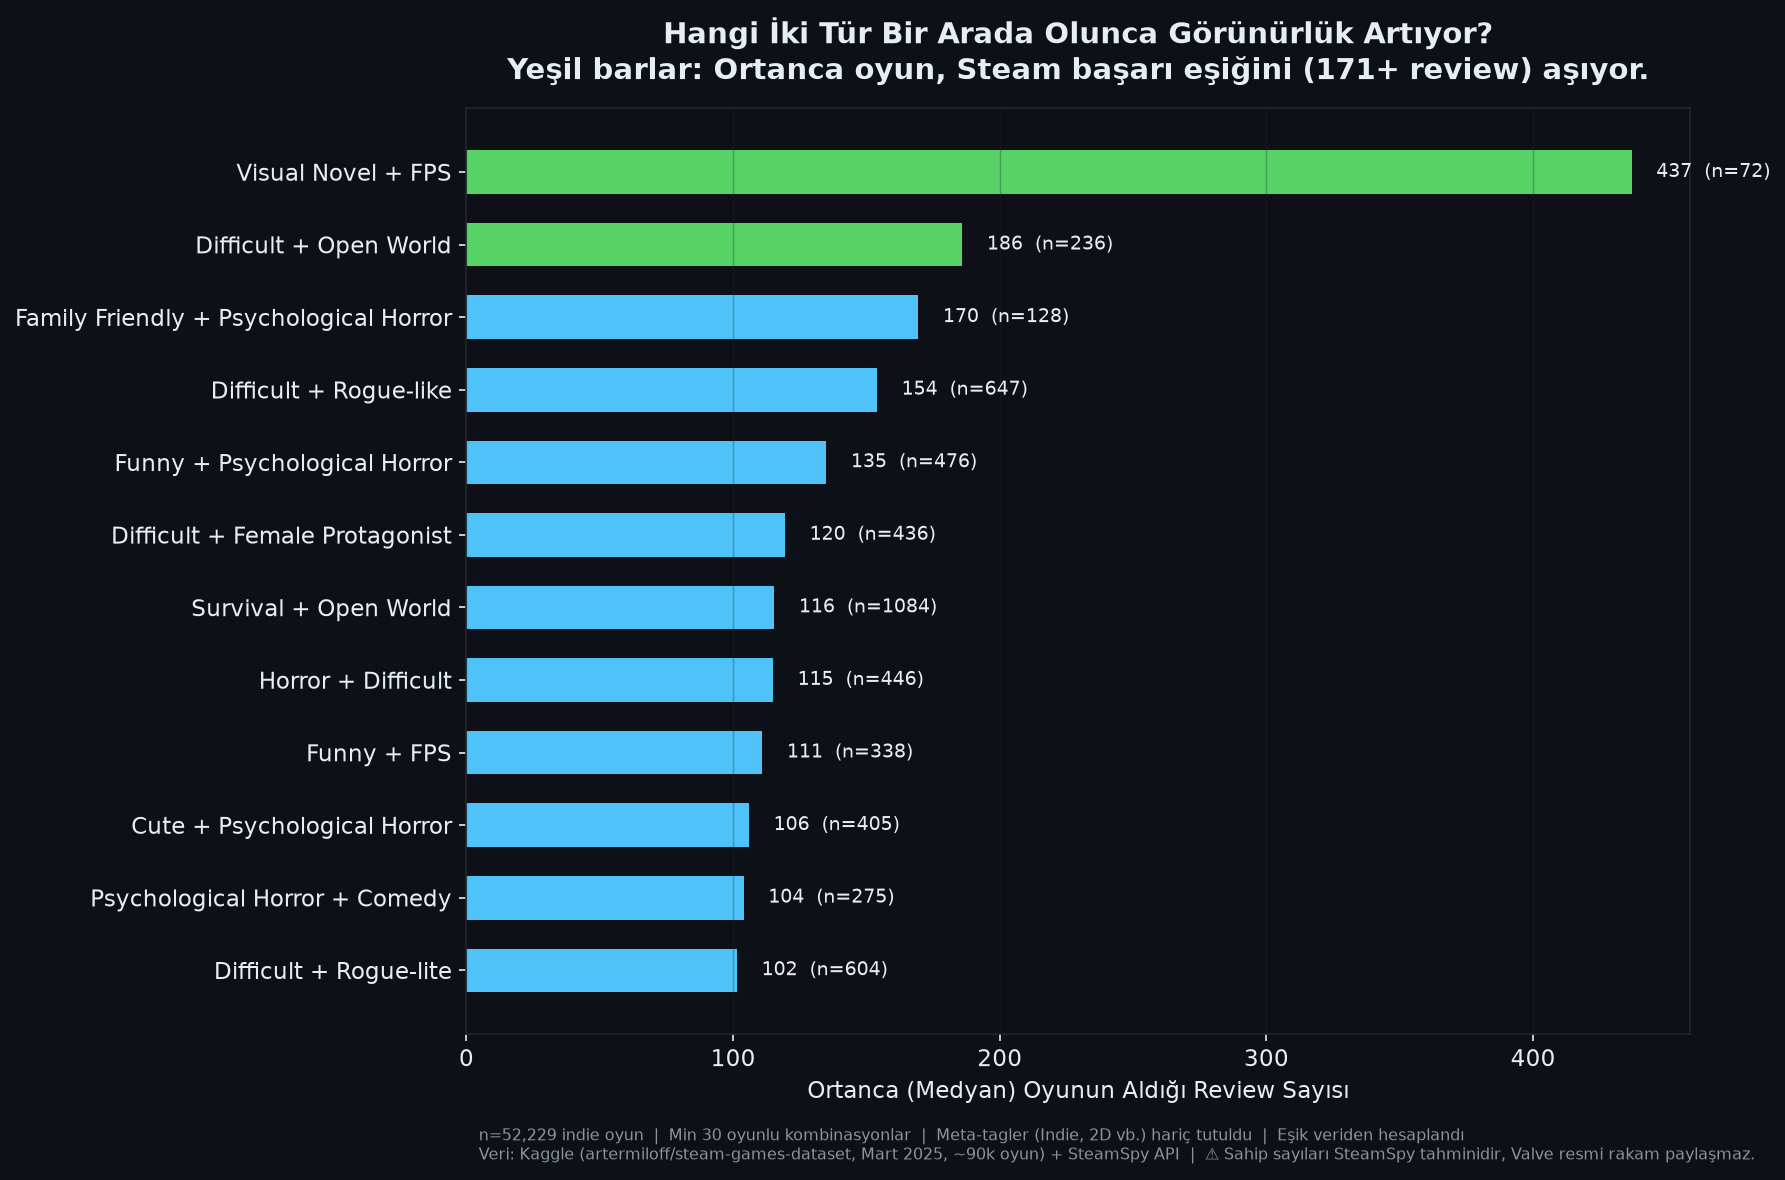
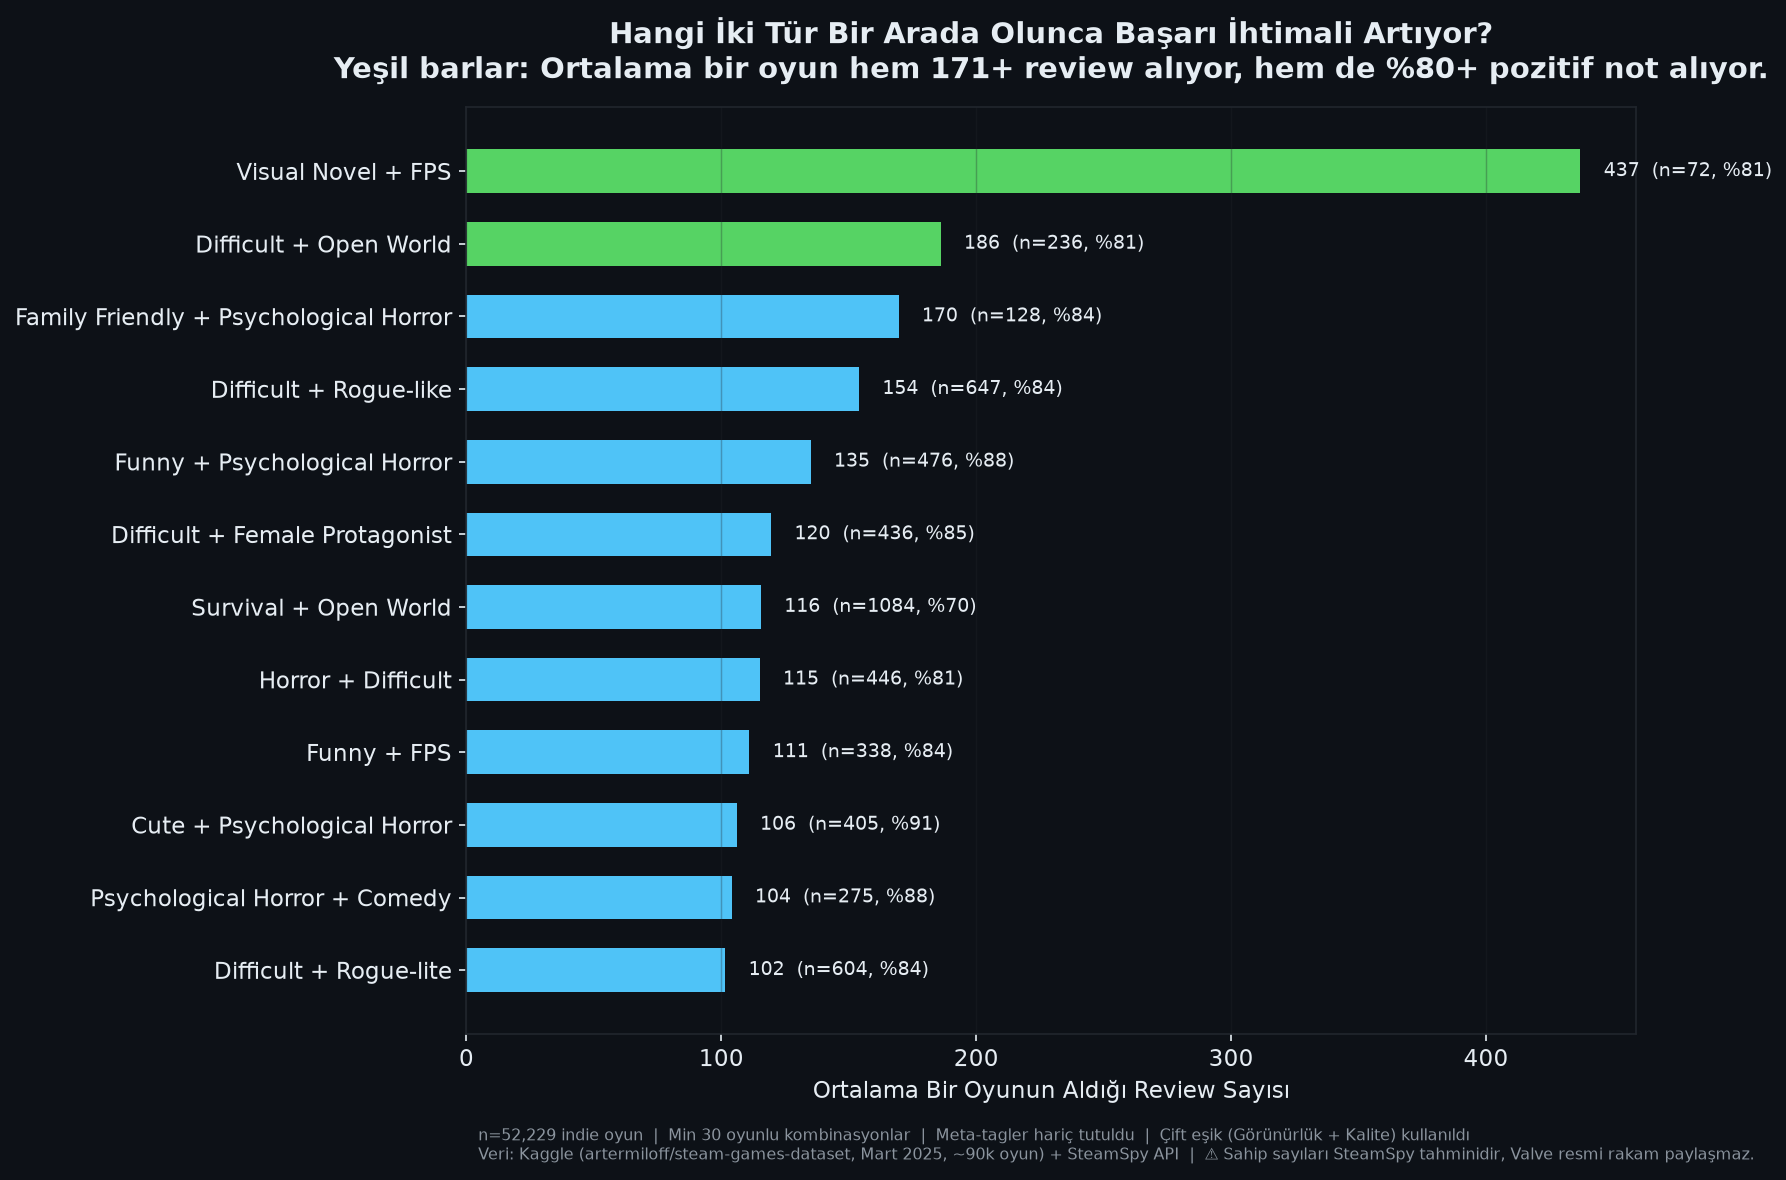
style: updated tag synergy chart to use dual criteria (review + quality) and improved phrasing

diff --git a/src/visualizer.py b/src/visualizer.py
@@ -320,8 +320,8 @@ def chart_tag_synergy(df):
     indie = df[df["is_indie"] & (df["total_reviews"] > 0)].copy()
     n_total = len(indie)
     
-    # Başarı eşiğini al (ör: 171+ review)
-    success_threshold, _, _ = calc_success_threshold(df)
+    # Başarı eşiğini al (ör: 171+ review ve %80+ kalite)
+    success_threshold, quality_threshold, _ = calc_success_threshold(df)
 
     # En sık görülen tag'leri bul (analiz için)
     from collections import Counter
@@ -346,7 +346,8 @@ def chart_tag_synergy(df):
             continue
         combo_stats.append({
             "combo": f"{t1} + {t2}",
-            "medyan": sub["total_reviews"].median(),
+            "medyan_review": sub["total_reviews"].median(),
+            "medyan_score": sub["review_score"].median(),
             "n": len(sub)
         })
 
@@ -355,31 +356,31 @@ def chart_tag_synergy(df):
         return
 
     stats = (pd.DataFrame(combo_stats)
-             .sort_values("medyan", ascending=False)
+             .sort_values("medyan_review", ascending=False)
              .head(12)
-             .sort_values("medyan", ascending=True))
+             .sort_values("medyan_review", ascending=True))
 
     fig, ax = plt.subplots(figsize=(12, 8))
     
-    # Renk mantığı: Medyan review eşiği (171) geçiyorsa YEŞİL (Başarılı)
-    colors = [C["green"] if row["medyan"] >= success_threshold else C["blue"] 
+    # Renk mantığı: Hem görünürlük (171) hem de kalite (%80) eşiğini geçiyorsa YEŞİL (Başarılı)
+    colors = [C["green"] if (row["medyan_review"] >= success_threshold and row["medyan_score"] >= quality_threshold) else C["blue"] 
               for _, row in stats.iterrows()]
               
-    bars = ax.barh(stats["combo"], stats["medyan"], color=colors, height=0.6)
+    bars = ax.barh(stats["combo"], stats["medyan_review"], color=colors, height=0.6)
 
     for bar, row in zip(bars, stats.itertuples()):
         ax.text(bar.get_width() + (ax.get_xlim()[1] * 0.02),
                 bar.get_y() + bar.get_height() / 2,
-                f"{row.medyan:.0f}  (n={row.n})",
+                f"{row.medyan_review:.0f}  (n={row.n}, %{row.medyan_score:.0f})",
                 va="center", fontsize=9, color=C["text"])
 
-    ax.set_title("Hangi İki Tür Bir Arada Olunca Görünürlük Artıyor?\n"
-                 f"Yeşil barlar: Ortanca oyun, Steam başarı eşiğini ({success_threshold}+ review) aşıyor.",
+    ax.set_title("Hangi İki Tür Bir Arada Olunca Başarı İhtimali Artıyor?\n"
+                 f"Yeşil barlar: Ortalama bir oyun hem {success_threshold}+ review alıyor, hem de %{quality_threshold}+ pozitif not alıyor.",
                  fontweight="bold", pad=14)
-    ax.set_xlabel("Ortanca (Medyan) Oyunun Aldığı Review Sayısı")
+    ax.set_xlabel("Ortalama Bir Oyunun Aldığı Review Sayısı")
     ax.grid(True, axis="x", alpha=0.3)
     _note(ax, f"n={n_total:,} indie oyun  |  Min 30 oyunlu kombinasyonlar  |  "
-              f"Meta-tagler (Indie, 2D vb.) hariç tutuldu  |  Eşik veriden hesaplandı")
+              f"Meta-tagler hariç tutuldu  |  Çift eşik (Görünürlük + Kalite) kullanıldı")
     fig.tight_layout()
     return _save(fig, "tag_synergy.png")
 
